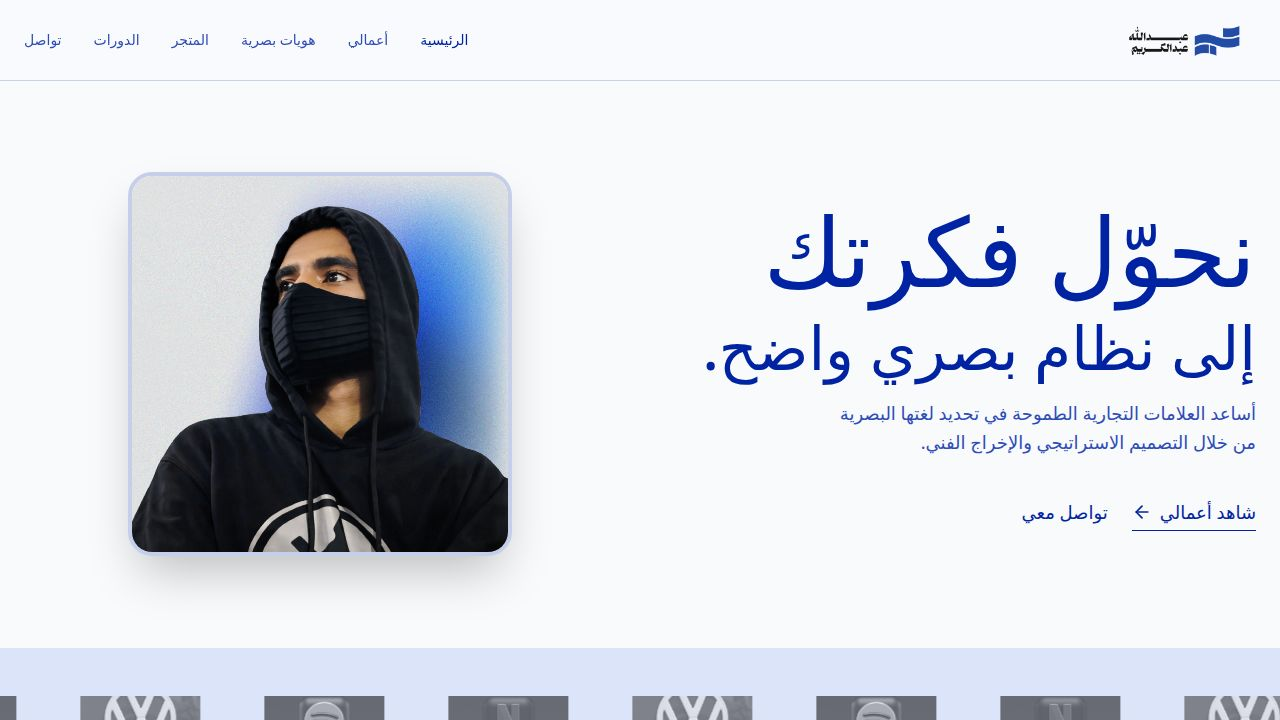
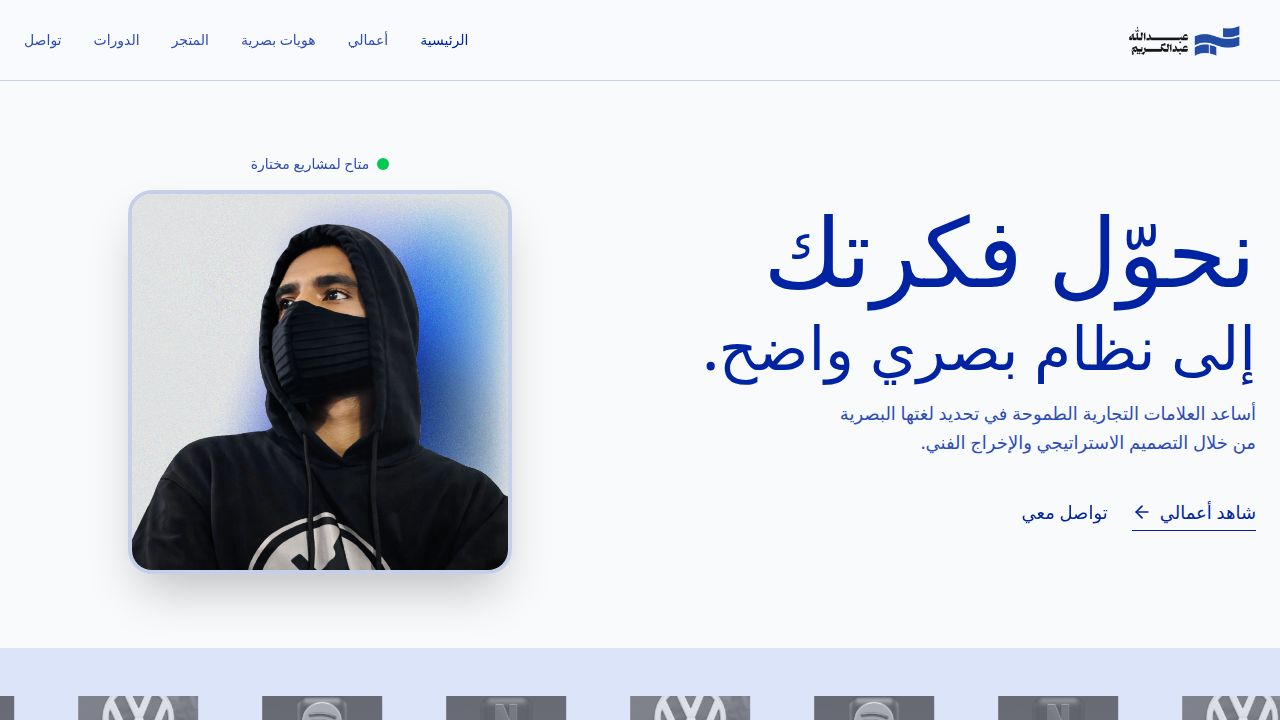
Add availability indicator and text to home page
Update Home.tsx to include a pulsing green circle and "متاح لمشاريع مختارة" text above the profile image.

Replit-Commit-Author: Agent
Replit-Commit-Session-Id: 74641a10-c796-4b7e-a174-5df63ea6cc0d
Replit-Commit-Checkpoint-Type: full_checkpoint
Replit-Commit-Event-Id: 7dc53fba-8646-481d-9b5b-2bc3cb906b63
Replit-Commit-Screenshot-Url: https://storage.googleapis.com/screenshot-production-us-central1/039efe4a-9129-4529-afc3-2a669781ed6c/74641a10-c796-4b7e-a174-5df63ea6cc0d/f1qIbDq
Replit-Helium-Checkpoint-Created: true

diff --git a/client/src/pages/Home.tsx b/client/src/pages/Home.tsx
@@ -65,8 +65,15 @@ export default function Home() {
               initial={{ opacity: 0, scale: 0.9 }}
               animate={{ opacity: 1, scale: 1 }}
               transition={{ duration: 0.8, ease: "easeOut", delay: 0.2 }}
-              className="hidden md:flex justify-center"
+              className="hidden md:flex flex-col items-center"
             >
+              <div className="flex items-center gap-2 mb-4">
+                <span className="relative flex h-3 w-3">
+                  <span className="animate-ping absolute inline-flex h-full w-full rounded-full bg-green-400 opacity-75"></span>
+                  <span className="relative inline-flex rounded-full h-3 w-3 bg-green-500"></span>
+                </span>
+                <span className="text-sm font-medium text-muted-foreground">متاح لمشاريع مختارة</span>
+              </div>
               <div className="w-80 h-80 lg:w-96 lg:h-96 overflow-hidden shadow-2xl border-4 border-primary/20 rounded-3xl">
                 <img 
                   src="/profile.png" 
